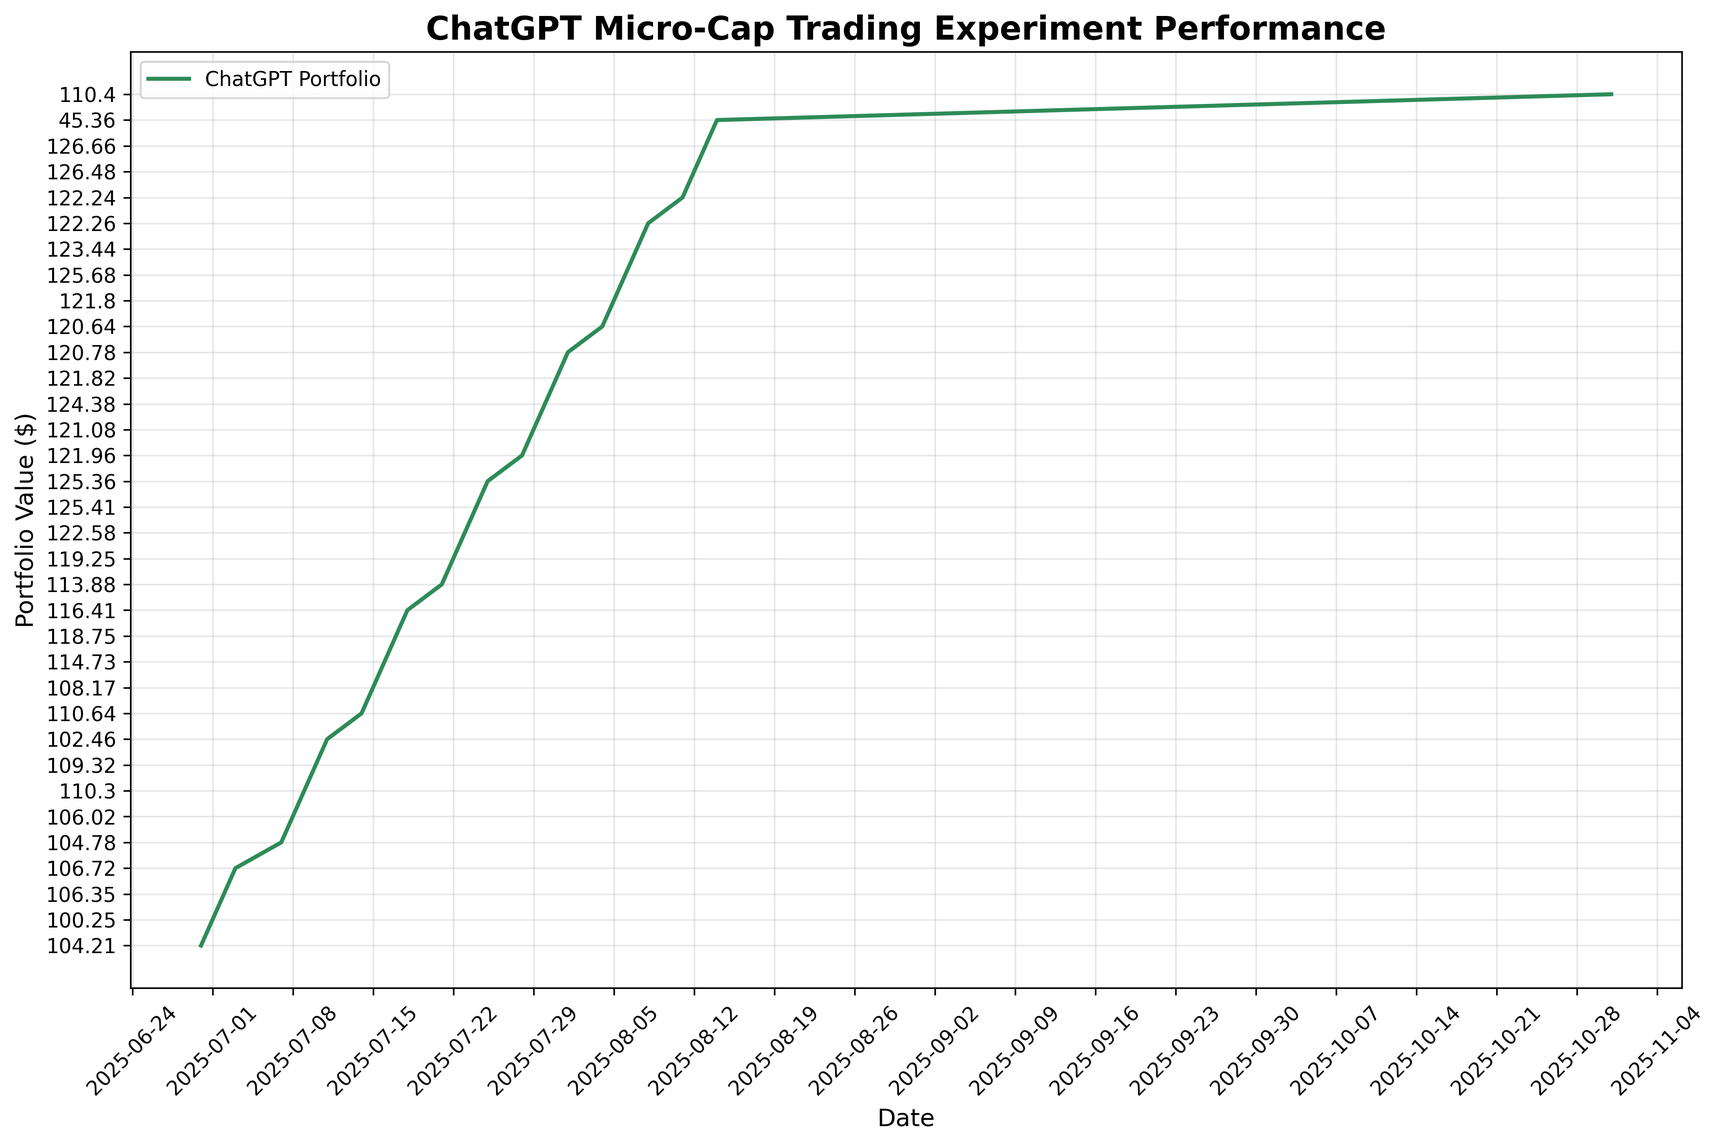
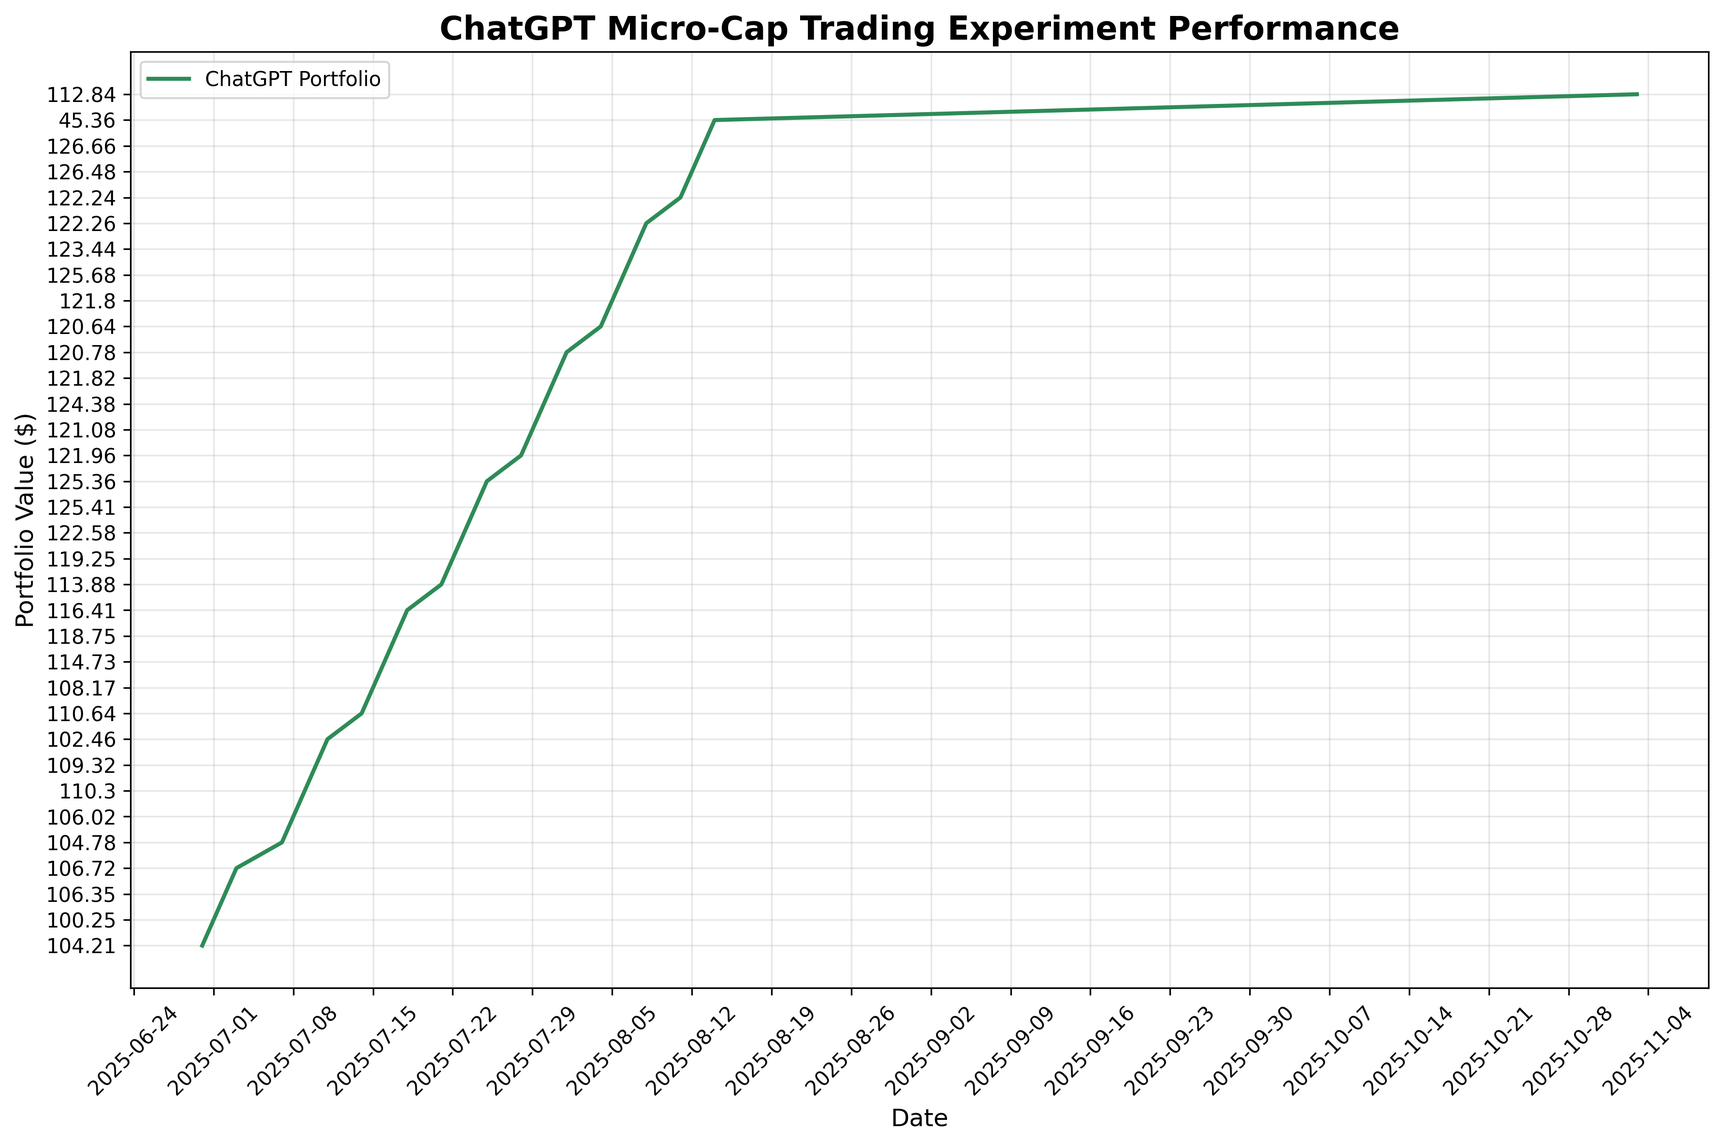
deploy: e15cad030d70fb3fbb51f9df6e22fa70c2f175c0

diff --git a/index.html b/index.html
@@ -105,7 +105,7 @@
                 <div class="stat-label">Total Trades</div>
             </div>
             <div class="stat-card">
-                <div class="stat-value" id="last-updated">2025-10-31</div>
+                <div class="stat-value" id="last-updated">2025-11-03</div>
                 <div class="stat-label">Last Updated</div>
             </div>
         </div>
@@ -160,8 +160,8 @@
     
     <script>
         // Portfolio data
-        const portfolioData = JSON.parse("[{&quot;Date&quot;: &quot;2025-08-11&quot;, &quot;Ticker&quot;: &quot;ABEO&quot;, &quot;Shares&quot;: 4.0, &quot;Buy Price&quot;: 5.77, &quot;Cost Basis&quot;: 23.08, &quot;Stop Loss&quot;: 4.9, &quot;Current Price&quot;: 6.28, &quot;Total Value&quot;: 25.12, &quot;PnL&quot;: 2.04, &quot;Action&quot;: &quot;HOLD&quot;, &quot;Cash Balance&quot;: NaN, &quot;Total Equity&quot;: NaN}, {&quot;Date&quot;: &quot;2025-08-11&quot;, &quot;Ticker&quot;: &quot;ACTU&quot;, &quot;Shares&quot;: 6.0, &quot;Buy Price&quot;: 5.75, &quot;Cost Basis&quot;: 34.5, &quot;Stop Loss&quot;: 4.89, &quot;Current Price&quot;: 8.01, &quot;Total Value&quot;: 48.06, &quot;PnL&quot;: 13.56, &quot;Action&quot;: &quot;HOLD&quot;, &quot;Cash Balance&quot;: NaN, &quot;Total Equity&quot;: NaN}, {&quot;Date&quot;: &quot;2025-08-11&quot;, &quot;Ticker&quot;: &quot;ESPR&quot;, &quot;Shares&quot;: 2.0, &quot;Buy Price&quot;: 1.91, &quot;Cost Basis&quot;: 3.82, &quot;Stop Loss&quot;: 1.6, &quot;Current Price&quot;: 1.85, &quot;Total Value&quot;: 3.7, &quot;PnL&quot;: -0.12, &quot;Action&quot;: &quot;HOLD&quot;, &quot;Cash Balance&quot;: NaN, &quot;Total Equity&quot;: NaN}, {&quot;Date&quot;: &quot;2025-08-11&quot;, &quot;Ticker&quot;: &quot;TOTAL&quot;, &quot;Shares&quot;: NaN, &quot;Buy Price&quot;: NaN, &quot;Cost Basis&quot;: NaN, &quot;Stop Loss&quot;: NaN, &quot;Current Price&quot;: NaN, &quot;Total Value&quot;: 76.88, &quot;PnL&quot;: 15.48, &quot;Action&quot;: NaN, &quot;Cash Balance&quot;: 45.36, &quot;Total Equity&quot;: &quot;122.24&quot;}, {&quot;Date&quot;: &quot;2025-08-12&quot;, &quot;Ticker&quot;: &quot;ABEO&quot;, &quot;Shares&quot;: 4.0, &quot;Buy Price&quot;: 5.77, &quot;Cost Basis&quot;: 23.08, &quot;Stop Loss&quot;: 4.9, &quot;Current Price&quot;: 6.38, &quot;Total Value&quot;: 25.52, &quot;PnL&quot;: 2.44, &quot;Action&quot;: &quot;HOLD&quot;, &quot;Cash Balance&quot;: NaN, &quot;Total Equity&quot;: NaN}, {&quot;Date&quot;: &quot;2025-08-12&quot;, &quot;Ticker&quot;: &quot;ACTU&quot;, &quot;Shares&quot;: 6.0, &quot;Buy Price&quot;: 5.75, &quot;Cost Basis&quot;: 34.5, &quot;Stop Loss&quot;: 4.89, &quot;Current Price&quot;: 8.67, &quot;Total Value&quot;: 52.02, &quot;PnL&quot;: 17.52, &quot;Action&quot;: &quot;HOLD&quot;, &quot;Cash Balance&quot;: NaN, &quot;Total Equity&quot;: NaN}, {&quot;Date&quot;: &quot;2025-08-12&quot;, &quot;Ticker&quot;: &quot;ESPR&quot;, &quot;Shares&quot;: 2.0, &quot;Buy Price&quot;: 1.91, &quot;Cost Basis&quot;: 3.82, &quot;Stop Loss&quot;: 1.6, &quot;Current Price&quot;: 1.79, &quot;Total Value&quot;: 3.58, &quot;PnL&quot;: -0.24, &quot;Action&quot;: &quot;HOLD&quot;, &quot;Cash Balance&quot;: NaN, &quot;Total Equity&quot;: NaN}, {&quot;Date&quot;: &quot;2025-08-12&quot;, &quot;Ticker&quot;: &quot;TOTAL&quot;, &quot;Shares&quot;: NaN, &quot;Buy Price&quot;: NaN, &quot;Cost Basis&quot;: NaN, &quot;Stop Loss&quot;: NaN, &quot;Current Price&quot;: NaN, &quot;Total Value&quot;: 81.12, &quot;PnL&quot;: 19.72, &quot;Action&quot;: NaN, &quot;Cash Balance&quot;: 45.36, &quot;Total Equity&quot;: &quot;126.48&quot;}, {&quot;Date&quot;: &quot;2025-08-13&quot;, &quot;Ticker&quot;: &quot;ABEO&quot;, &quot;Shares&quot;: 4.0, &quot;Buy Price&quot;: 5.77, &quot;Cost Basis&quot;: 23.08, &quot;Stop Loss&quot;: 4.9, &quot;Current Price&quot;: 6.56, &quot;Total Value&quot;: 26.24, &quot;PnL&quot;: 3.16, &quot;Action&quot;: &quot;HOLD&quot;, &quot;Cash Balance&quot;: NaN, &quot;Total Equity&quot;: NaN}, {&quot;Date&quot;: &quot;2025-08-13&quot;, &quot;Ticker&quot;: &quot;ACTU&quot;, &quot;Shares&quot;: 6.0, &quot;Buy Price&quot;: 5.75, &quot;Cost Basis&quot;: 34.5, &quot;Stop Loss&quot;: 4.89, &quot;Current Price&quot;: 8.53, &quot;Total Value&quot;: 51.18, &quot;PnL&quot;: 16.68, &quot;Action&quot;: &quot;HOLD&quot;, &quot;Cash Balance&quot;: NaN, &quot;Total Equity&quot;: NaN}, {&quot;Date&quot;: &quot;2025-08-13&quot;, &quot;Ticker&quot;: &quot;ESPR&quot;, &quot;Shares&quot;: 2.0, &quot;Buy Price&quot;: 1.91, &quot;Cost Basis&quot;: 3.82, &quot;Stop Loss&quot;: 1.6, &quot;Current Price&quot;: 1.94, &quot;Total Value&quot;: 3.88, &quot;PnL&quot;: 0.06, &quot;Action&quot;: &quot;HOLD&quot;, &quot;Cash Balance&quot;: NaN, &quot;Total Equity&quot;: NaN}, {&quot;Date&quot;: &quot;2025-08-13&quot;, &quot;Ticker&quot;: &quot;TOTAL&quot;, &quot;Shares&quot;: NaN, &quot;Buy Price&quot;: NaN, &quot;Cost Basis&quot;: NaN, &quot;Stop Loss&quot;: NaN, &quot;Current Price&quot;: NaN, &quot;Total Value&quot;: 81.3, &quot;PnL&quot;: 19.9, &quot;Action&quot;: NaN, &quot;Cash Balance&quot;: 45.36, &quot;Total Equity&quot;: &quot;126.66&quot;}, {&quot;Date&quot;: &quot;2025-08-14&quot;, &quot;Ticker&quot;: &quot;ABEO&quot;, &quot;Shares&quot;: 4.0, &quot;Buy Price&quot;: 5.77, &quot;Cost Basis&quot;: 23.08, &quot;Stop Loss&quot;: 4.9, &quot;Current Price&quot;: NaN, &quot;Total Value&quot;: NaN, &quot;PnL&quot;: NaN, &quot;Action&quot;: &quot;NO DATA&quot;, &quot;Cash Balance&quot;: NaN, &quot;Total Equity&quot;: NaN}, {&quot;Date&quot;: &quot;2025-08-14&quot;, &quot;Ticker&quot;: &quot;ACTU&quot;, &quot;Shares&quot;: 6.0, &quot;Buy Price&quot;: 5.75, &quot;Cost Basis&quot;: 34.5, &quot;Stop Loss&quot;: 4.89, &quot;Current Price&quot;: NaN, &quot;Total Value&quot;: NaN, &quot;PnL&quot;: NaN, &quot;Action&quot;: &quot;NO DATA&quot;, &quot;Cash Balance&quot;: NaN, &quot;Total Equity&quot;: NaN}, {&quot;Date&quot;: &quot;2025-08-14&quot;, &quot;Ticker&quot;: &quot;ESPR&quot;, &quot;Shares&quot;: 2.0, &quot;Buy Price&quot;: 1.91, &quot;Cost Basis&quot;: 3.82, &quot;Stop Loss&quot;: 1.6, &quot;Current Price&quot;: NaN, &quot;Total Value&quot;: NaN, &quot;PnL&quot;: NaN, &quot;Action&quot;: &quot;NO DATA&quot;, &quot;Cash Balance&quot;: NaN, &quot;Total Equity&quot;: NaN}, {&quot;Date&quot;: &quot;2025-08-14&quot;, &quot;Ticker&quot;: &quot;TOTAL&quot;, &quot;Shares&quot;: NaN, &quot;Buy Price&quot;: NaN, &quot;Cost Basis&quot;: NaN, &quot;Stop Loss&quot;: NaN, &quot;Current Price&quot;: NaN, &quot;Total Value&quot;: 0.0, &quot;PnL&quot;: 0.0, &quot;Action&quot;: NaN, &quot;Cash Balance&quot;: 45.36, &quot;Total Equity&quot;: &quot;45.36&quot;}, {&quot;Date&quot;: &quot;2025-10-31&quot;, &quot;Ticker&quot;: &quot;ABEO&quot;, &quot;Shares&quot;: 4.0, &quot;Buy Price&quot;: 5.77, &quot;Cost Basis&quot;: 23.08, &quot;Stop Loss&quot;: 4.9, &quot;Current Price&quot;: 4.9, &quot;Total Value&quot;: 19.6, &quot;PnL&quot;: -3.48, &quot;Action&quot;: &quot;SELL - Stop Loss Triggered&quot;, &quot;Cash Balance&quot;: NaN, &quot;Total Equity&quot;: NaN}, {&quot;Date&quot;: &quot;2025-10-31&quot;, &quot;Ticker&quot;: &quot;ACTU&quot;, &quot;Shares&quot;: 6.0, &quot;Buy Price&quot;: 5.75, &quot;Cost Basis&quot;: 34.5, &quot;Stop Loss&quot;: 4.89, &quot;Current Price&quot;: 6.6, &quot;Total Value&quot;: 39.6, &quot;PnL&quot;: 5.1, &quot;Action&quot;: &quot;HOLD&quot;, &quot;Cash Balance&quot;: NaN, &quot;Total Equity&quot;: NaN}, {&quot;Date&quot;: &quot;2025-10-31&quot;, &quot;Ticker&quot;: &quot;ESPR&quot;, &quot;Shares&quot;: 2.0, &quot;Buy Price&quot;: 1.91, &quot;Cost Basis&quot;: 3.82, &quot;Stop Loss&quot;: 1.6, &quot;Current Price&quot;: 2.92, &quot;Total Value&quot;: 5.84, &quot;PnL&quot;: 2.02, &quot;Action&quot;: &quot;HOLD&quot;, &quot;Cash Balance&quot;: NaN, &quot;Total Equity&quot;: NaN}, {&quot;Date&quot;: &quot;2025-10-31&quot;, &quot;Ticker&quot;: &quot;TOTAL&quot;, &quot;Shares&quot;: NaN, &quot;Buy Price&quot;: NaN, &quot;Cost Basis&quot;: NaN, &quot;Stop Loss&quot;: NaN, &quot;Current Price&quot;: NaN, &quot;Total Value&quot;: 45.44, &quot;PnL&quot;: 7.12, &quot;Action&quot;: NaN, &quot;Cash Balance&quot;: 64.96, &quot;Total Equity&quot;: &quot;110.4&quot;}]");
-        const tradeData = JSON.parse("[{&quot;Date&quot;: &quot;2025-07-08&quot;, &quot;Ticker&quot;: &quot;IINN&quot;, &quot;Shares Bought&quot;: 20.0, &quot;Buy Price&quot;: 1.5, &quot;Cost Basis&quot;: 30.0, &quot;PnL&quot;: 0.0, &quot;Reason&quot;: &quot;MANUAL BUY - New position&quot;, &quot;Shares Sold&quot;: NaN, &quot;Sell Price&quot;: NaN}, {&quot;Date&quot;: &quot;2025-07-21&quot;, &quot;Ticker&quot;: &quot;CADL&quot;, &quot;Shares Bought&quot;: NaN, &quot;Buy Price&quot;: NaN, &quot;Cost Basis&quot;: 25.2, &quot;PnL&quot;: 8.5, &quot;Reason&quot;: &quot;MANUAL SELL - GAIN CAPITAL FOR ACTU&quot;, &quot;Shares Sold&quot;: 5.0, &quot;Sell Price&quot;: 6.59}, {&quot;Date&quot;: &quot;2025-07-21&quot;, &quot;Ticker&quot;: &quot;ACTU&quot;, &quot;Shares Bought&quot;: 6.0, &quot;Buy Price&quot;: 5.75, &quot;Cost Basis&quot;: 34.5, &quot;PnL&quot;: 0.0, &quot;Reason&quot;: &quot;MANUAL BUY - New position&quot;, &quot;Shares Sold&quot;: NaN, &quot;Sell Price&quot;: NaN}, {&quot;Date&quot;: &quot;2025-07-28&quot;, &quot;Ticker&quot;: &quot;IINN&quot;, &quot;Shares Bought&quot;: NaN, &quot;Buy Price&quot;: NaN, &quot;Cost Basis&quot;: 9.0, &quot;PnL&quot;: -0.5400000000000009, &quot;Reason&quot;: &quot;MANUAL SELL - POSITION REDUCTION&quot;, &quot;Shares Sold&quot;: 6.0, &quot;Sell Price&quot;: 1.41}, {&quot;Date&quot;: &quot;2025-07-29&quot;, &quot;Ticker&quot;: &quot;AZTR&quot;, &quot;Shares Bought&quot;: NaN, &quot;Buy Price&quot;: NaN, &quot;Cost Basis&quot;: 13.75, &quot;PnL&quot;: -2.75, &quot;Reason&quot;: &quot;MANUAL SELL - DILUTION RISK&quot;, &quot;Shares Sold&quot;: 55.0, &quot;Sell Price&quot;: 0.2}, {&quot;Date&quot;: &quot;2025-08-01&quot;, &quot;Ticker&quot;: &quot;IINN&quot;, &quot;Shares Bought&quot;: 2.0, &quot;Buy Price&quot;: 1.74, &quot;Cost Basis&quot;: 3.48, &quot;PnL&quot;: 0.0, &quot;Reason&quot;: &quot;MANUAL BUY - New position&quot;, &quot;Shares Sold&quot;: NaN, &quot;Sell Price&quot;: NaN}, {&quot;Date&quot;: &quot;2025-08-01&quot;, &quot;Ticker&quot;: &quot;ABEO&quot;, &quot;Shares Bought&quot;: NaN, &quot;Buy Price&quot;: NaN, &quot;Cost Basis&quot;: 11.54, &quot;PnL&quot;: 1.200000000000001, &quot;Reason&quot;: &quot;MANUAL SELL - TRIM AFTER SUPPORT LOSS&quot;, &quot;Shares Sold&quot;: 2.0, &quot;Sell Price&quot;: 6.37}, {&quot;Date&quot;: &quot;2025-08-07&quot;, &quot;Ticker&quot;: &quot;ESPR&quot;, &quot;Shares Bought&quot;: 2.0, &quot;Buy Price&quot;: 1.91, &quot;Cost Basis&quot;: 3.82, &quot;PnL&quot;: 0.0, &quot;Reason&quot;: &quot;MANUAL BUY - New position&quot;, &quot;Shares Sold&quot;: NaN, &quot;Sell Price&quot;: NaN}, {&quot;Date&quot;: &quot;2025-08-08&quot;, &quot;Ticker&quot;: &quot;IINN&quot;, &quot;Shares Bought&quot;: NaN, &quot;Buy Price&quot;: NaN, &quot;Cost Basis&quot;: 1.5, &quot;PnL&quot;: -6.4, &quot;Reason&quot;: &quot;AUTOMATED SELL - STOPLOSS TRIGGERED&quot;, &quot;Shares Sold&quot;: 16.0, &quot;Sell Price&quot;: 1.1}, {&quot;Date&quot;: &quot;2025-10-31&quot;, &quot;Ticker&quot;: &quot;ABEO&quot;, &quot;Shares Bought&quot;: NaN, &quot;Buy Price&quot;: NaN, &quot;Cost Basis&quot;: 5.77, &quot;PnL&quot;: -3.48, &quot;Reason&quot;: &quot;AUTOMATED SELL - STOPLOSS TRIGGERED&quot;, &quot;Shares Sold&quot;: 4.0, &quot;Sell Price&quot;: 4.9}]");
+        const portfolioData = JSON.parse("[{&quot;Date&quot;: &quot;2025-08-11&quot;, &quot;Ticker&quot;: &quot;ABEO&quot;, &quot;Shares&quot;: 4.0, &quot;Buy Price&quot;: 5.77, &quot;Cost Basis&quot;: 23.08, &quot;Stop Loss&quot;: 4.9, &quot;Current Price&quot;: 6.28, &quot;Total Value&quot;: 25.12, &quot;PnL&quot;: 2.04, &quot;Action&quot;: &quot;HOLD&quot;, &quot;Cash Balance&quot;: NaN, &quot;Total Equity&quot;: NaN}, {&quot;Date&quot;: &quot;2025-08-11&quot;, &quot;Ticker&quot;: &quot;ACTU&quot;, &quot;Shares&quot;: 6.0, &quot;Buy Price&quot;: 5.75, &quot;Cost Basis&quot;: 34.5, &quot;Stop Loss&quot;: 4.89, &quot;Current Price&quot;: 8.01, &quot;Total Value&quot;: 48.06, &quot;PnL&quot;: 13.56, &quot;Action&quot;: &quot;HOLD&quot;, &quot;Cash Balance&quot;: NaN, &quot;Total Equity&quot;: NaN}, {&quot;Date&quot;: &quot;2025-08-11&quot;, &quot;Ticker&quot;: &quot;ESPR&quot;, &quot;Shares&quot;: 2.0, &quot;Buy Price&quot;: 1.91, &quot;Cost Basis&quot;: 3.82, &quot;Stop Loss&quot;: 1.6, &quot;Current Price&quot;: 1.85, &quot;Total Value&quot;: 3.7, &quot;PnL&quot;: -0.12, &quot;Action&quot;: &quot;HOLD&quot;, &quot;Cash Balance&quot;: NaN, &quot;Total Equity&quot;: NaN}, {&quot;Date&quot;: &quot;2025-08-11&quot;, &quot;Ticker&quot;: &quot;TOTAL&quot;, &quot;Shares&quot;: NaN, &quot;Buy Price&quot;: NaN, &quot;Cost Basis&quot;: NaN, &quot;Stop Loss&quot;: NaN, &quot;Current Price&quot;: NaN, &quot;Total Value&quot;: 76.88, &quot;PnL&quot;: 15.48, &quot;Action&quot;: NaN, &quot;Cash Balance&quot;: 45.36, &quot;Total Equity&quot;: &quot;122.24&quot;}, {&quot;Date&quot;: &quot;2025-08-12&quot;, &quot;Ticker&quot;: &quot;ABEO&quot;, &quot;Shares&quot;: 4.0, &quot;Buy Price&quot;: 5.77, &quot;Cost Basis&quot;: 23.08, &quot;Stop Loss&quot;: 4.9, &quot;Current Price&quot;: 6.38, &quot;Total Value&quot;: 25.52, &quot;PnL&quot;: 2.44, &quot;Action&quot;: &quot;HOLD&quot;, &quot;Cash Balance&quot;: NaN, &quot;Total Equity&quot;: NaN}, {&quot;Date&quot;: &quot;2025-08-12&quot;, &quot;Ticker&quot;: &quot;ACTU&quot;, &quot;Shares&quot;: 6.0, &quot;Buy Price&quot;: 5.75, &quot;Cost Basis&quot;: 34.5, &quot;Stop Loss&quot;: 4.89, &quot;Current Price&quot;: 8.67, &quot;Total Value&quot;: 52.02, &quot;PnL&quot;: 17.52, &quot;Action&quot;: &quot;HOLD&quot;, &quot;Cash Balance&quot;: NaN, &quot;Total Equity&quot;: NaN}, {&quot;Date&quot;: &quot;2025-08-12&quot;, &quot;Ticker&quot;: &quot;ESPR&quot;, &quot;Shares&quot;: 2.0, &quot;Buy Price&quot;: 1.91, &quot;Cost Basis&quot;: 3.82, &quot;Stop Loss&quot;: 1.6, &quot;Current Price&quot;: 1.79, &quot;Total Value&quot;: 3.58, &quot;PnL&quot;: -0.24, &quot;Action&quot;: &quot;HOLD&quot;, &quot;Cash Balance&quot;: NaN, &quot;Total Equity&quot;: NaN}, {&quot;Date&quot;: &quot;2025-08-12&quot;, &quot;Ticker&quot;: &quot;TOTAL&quot;, &quot;Shares&quot;: NaN, &quot;Buy Price&quot;: NaN, &quot;Cost Basis&quot;: NaN, &quot;Stop Loss&quot;: NaN, &quot;Current Price&quot;: NaN, &quot;Total Value&quot;: 81.12, &quot;PnL&quot;: 19.72, &quot;Action&quot;: NaN, &quot;Cash Balance&quot;: 45.36, &quot;Total Equity&quot;: &quot;126.48&quot;}, {&quot;Date&quot;: &quot;2025-08-13&quot;, &quot;Ticker&quot;: &quot;ABEO&quot;, &quot;Shares&quot;: 4.0, &quot;Buy Price&quot;: 5.77, &quot;Cost Basis&quot;: 23.08, &quot;Stop Loss&quot;: 4.9, &quot;Current Price&quot;: 6.56, &quot;Total Value&quot;: 26.24, &quot;PnL&quot;: 3.16, &quot;Action&quot;: &quot;HOLD&quot;, &quot;Cash Balance&quot;: NaN, &quot;Total Equity&quot;: NaN}, {&quot;Date&quot;: &quot;2025-08-13&quot;, &quot;Ticker&quot;: &quot;ACTU&quot;, &quot;Shares&quot;: 6.0, &quot;Buy Price&quot;: 5.75, &quot;Cost Basis&quot;: 34.5, &quot;Stop Loss&quot;: 4.89, &quot;Current Price&quot;: 8.53, &quot;Total Value&quot;: 51.18, &quot;PnL&quot;: 16.68, &quot;Action&quot;: &quot;HOLD&quot;, &quot;Cash Balance&quot;: NaN, &quot;Total Equity&quot;: NaN}, {&quot;Date&quot;: &quot;2025-08-13&quot;, &quot;Ticker&quot;: &quot;ESPR&quot;, &quot;Shares&quot;: 2.0, &quot;Buy Price&quot;: 1.91, &quot;Cost Basis&quot;: 3.82, &quot;Stop Loss&quot;: 1.6, &quot;Current Price&quot;: 1.94, &quot;Total Value&quot;: 3.88, &quot;PnL&quot;: 0.06, &quot;Action&quot;: &quot;HOLD&quot;, &quot;Cash Balance&quot;: NaN, &quot;Total Equity&quot;: NaN}, {&quot;Date&quot;: &quot;2025-08-13&quot;, &quot;Ticker&quot;: &quot;TOTAL&quot;, &quot;Shares&quot;: NaN, &quot;Buy Price&quot;: NaN, &quot;Cost Basis&quot;: NaN, &quot;Stop Loss&quot;: NaN, &quot;Current Price&quot;: NaN, &quot;Total Value&quot;: 81.3, &quot;PnL&quot;: 19.9, &quot;Action&quot;: NaN, &quot;Cash Balance&quot;: 45.36, &quot;Total Equity&quot;: &quot;126.66&quot;}, {&quot;Date&quot;: &quot;2025-08-14&quot;, &quot;Ticker&quot;: &quot;ABEO&quot;, &quot;Shares&quot;: 4.0, &quot;Buy Price&quot;: 5.77, &quot;Cost Basis&quot;: 23.08, &quot;Stop Loss&quot;: 4.9, &quot;Current Price&quot;: NaN, &quot;Total Value&quot;: NaN, &quot;PnL&quot;: NaN, &quot;Action&quot;: &quot;NO DATA&quot;, &quot;Cash Balance&quot;: NaN, &quot;Total Equity&quot;: NaN}, {&quot;Date&quot;: &quot;2025-08-14&quot;, &quot;Ticker&quot;: &quot;ACTU&quot;, &quot;Shares&quot;: 6.0, &quot;Buy Price&quot;: 5.75, &quot;Cost Basis&quot;: 34.5, &quot;Stop Loss&quot;: 4.89, &quot;Current Price&quot;: NaN, &quot;Total Value&quot;: NaN, &quot;PnL&quot;: NaN, &quot;Action&quot;: &quot;NO DATA&quot;, &quot;Cash Balance&quot;: NaN, &quot;Total Equity&quot;: NaN}, {&quot;Date&quot;: &quot;2025-08-14&quot;, &quot;Ticker&quot;: &quot;ESPR&quot;, &quot;Shares&quot;: 2.0, &quot;Buy Price&quot;: 1.91, &quot;Cost Basis&quot;: 3.82, &quot;Stop Loss&quot;: 1.6, &quot;Current Price&quot;: NaN, &quot;Total Value&quot;: NaN, &quot;PnL&quot;: NaN, &quot;Action&quot;: &quot;NO DATA&quot;, &quot;Cash Balance&quot;: NaN, &quot;Total Equity&quot;: NaN}, {&quot;Date&quot;: &quot;2025-08-14&quot;, &quot;Ticker&quot;: &quot;TOTAL&quot;, &quot;Shares&quot;: NaN, &quot;Buy Price&quot;: NaN, &quot;Cost Basis&quot;: NaN, &quot;Stop Loss&quot;: NaN, &quot;Current Price&quot;: NaN, &quot;Total Value&quot;: 0.0, &quot;PnL&quot;: 0.0, &quot;Action&quot;: NaN, &quot;Cash Balance&quot;: 45.36, &quot;Total Equity&quot;: &quot;45.36&quot;}, {&quot;Date&quot;: &quot;2025-11-03&quot;, &quot;Ticker&quot;: &quot;ABEO&quot;, &quot;Shares&quot;: 4.0, &quot;Buy Price&quot;: 5.77, &quot;Cost Basis&quot;: 23.08, &quot;Stop Loss&quot;: 4.9, &quot;Current Price&quot;: 4.9, &quot;Total Value&quot;: 19.6, &quot;PnL&quot;: -3.48, &quot;Action&quot;: &quot;SELL - Stop Loss Triggered&quot;, &quot;Cash Balance&quot;: NaN, &quot;Total Equity&quot;: NaN}, {&quot;Date&quot;: &quot;2025-11-03&quot;, &quot;Ticker&quot;: &quot;ACTU&quot;, &quot;Shares&quot;: 6.0, &quot;Buy Price&quot;: 5.75, &quot;Cost Basis&quot;: 34.5, &quot;Stop Loss&quot;: 4.89, &quot;Current Price&quot;: 7.01, &quot;Total Value&quot;: 42.06, &quot;PnL&quot;: 7.56, &quot;Action&quot;: &quot;HOLD&quot;, &quot;Cash Balance&quot;: NaN, &quot;Total Equity&quot;: NaN}, {&quot;Date&quot;: &quot;2025-11-03&quot;, &quot;Ticker&quot;: &quot;ESPR&quot;, &quot;Shares&quot;: 2.0, &quot;Buy Price&quot;: 1.91, &quot;Cost Basis&quot;: 3.82, &quot;Stop Loss&quot;: 1.6, &quot;Current Price&quot;: 2.91, &quot;Total Value&quot;: 5.82, &quot;PnL&quot;: 2.0, &quot;Action&quot;: &quot;HOLD&quot;, &quot;Cash Balance&quot;: NaN, &quot;Total Equity&quot;: NaN}, {&quot;Date&quot;: &quot;2025-11-03&quot;, &quot;Ticker&quot;: &quot;TOTAL&quot;, &quot;Shares&quot;: NaN, &quot;Buy Price&quot;: NaN, &quot;Cost Basis&quot;: NaN, &quot;Stop Loss&quot;: NaN, &quot;Current Price&quot;: NaN, &quot;Total Value&quot;: 47.88, &quot;PnL&quot;: 9.56, &quot;Action&quot;: NaN, &quot;Cash Balance&quot;: 64.96, &quot;Total Equity&quot;: &quot;112.84&quot;}]");
+        const tradeData = JSON.parse("[{&quot;Date&quot;: &quot;2025-07-08&quot;, &quot;Ticker&quot;: &quot;IINN&quot;, &quot;Shares Bought&quot;: 20.0, &quot;Buy Price&quot;: 1.5, &quot;Cost Basis&quot;: 30.0, &quot;PnL&quot;: 0.0, &quot;Reason&quot;: &quot;MANUAL BUY - New position&quot;, &quot;Shares Sold&quot;: NaN, &quot;Sell Price&quot;: NaN}, {&quot;Date&quot;: &quot;2025-07-21&quot;, &quot;Ticker&quot;: &quot;CADL&quot;, &quot;Shares Bought&quot;: NaN, &quot;Buy Price&quot;: NaN, &quot;Cost Basis&quot;: 25.2, &quot;PnL&quot;: 8.5, &quot;Reason&quot;: &quot;MANUAL SELL - GAIN CAPITAL FOR ACTU&quot;, &quot;Shares Sold&quot;: 5.0, &quot;Sell Price&quot;: 6.59}, {&quot;Date&quot;: &quot;2025-07-21&quot;, &quot;Ticker&quot;: &quot;ACTU&quot;, &quot;Shares Bought&quot;: 6.0, &quot;Buy Price&quot;: 5.75, &quot;Cost Basis&quot;: 34.5, &quot;PnL&quot;: 0.0, &quot;Reason&quot;: &quot;MANUAL BUY - New position&quot;, &quot;Shares Sold&quot;: NaN, &quot;Sell Price&quot;: NaN}, {&quot;Date&quot;: &quot;2025-07-28&quot;, &quot;Ticker&quot;: &quot;IINN&quot;, &quot;Shares Bought&quot;: NaN, &quot;Buy Price&quot;: NaN, &quot;Cost Basis&quot;: 9.0, &quot;PnL&quot;: -0.5400000000000009, &quot;Reason&quot;: &quot;MANUAL SELL - POSITION REDUCTION&quot;, &quot;Shares Sold&quot;: 6.0, &quot;Sell Price&quot;: 1.41}, {&quot;Date&quot;: &quot;2025-07-29&quot;, &quot;Ticker&quot;: &quot;AZTR&quot;, &quot;Shares Bought&quot;: NaN, &quot;Buy Price&quot;: NaN, &quot;Cost Basis&quot;: 13.75, &quot;PnL&quot;: -2.75, &quot;Reason&quot;: &quot;MANUAL SELL - DILUTION RISK&quot;, &quot;Shares Sold&quot;: 55.0, &quot;Sell Price&quot;: 0.2}, {&quot;Date&quot;: &quot;2025-08-01&quot;, &quot;Ticker&quot;: &quot;IINN&quot;, &quot;Shares Bought&quot;: 2.0, &quot;Buy Price&quot;: 1.74, &quot;Cost Basis&quot;: 3.48, &quot;PnL&quot;: 0.0, &quot;Reason&quot;: &quot;MANUAL BUY - New position&quot;, &quot;Shares Sold&quot;: NaN, &quot;Sell Price&quot;: NaN}, {&quot;Date&quot;: &quot;2025-08-01&quot;, &quot;Ticker&quot;: &quot;ABEO&quot;, &quot;Shares Bought&quot;: NaN, &quot;Buy Price&quot;: NaN, &quot;Cost Basis&quot;: 11.54, &quot;PnL&quot;: 1.200000000000001, &quot;Reason&quot;: &quot;MANUAL SELL - TRIM AFTER SUPPORT LOSS&quot;, &quot;Shares Sold&quot;: 2.0, &quot;Sell Price&quot;: 6.37}, {&quot;Date&quot;: &quot;2025-08-07&quot;, &quot;Ticker&quot;: &quot;ESPR&quot;, &quot;Shares Bought&quot;: 2.0, &quot;Buy Price&quot;: 1.91, &quot;Cost Basis&quot;: 3.82, &quot;PnL&quot;: 0.0, &quot;Reason&quot;: &quot;MANUAL BUY - New position&quot;, &quot;Shares Sold&quot;: NaN, &quot;Sell Price&quot;: NaN}, {&quot;Date&quot;: &quot;2025-08-08&quot;, &quot;Ticker&quot;: &quot;IINN&quot;, &quot;Shares Bought&quot;: NaN, &quot;Buy Price&quot;: NaN, &quot;Cost Basis&quot;: 1.5, &quot;PnL&quot;: -6.4, &quot;Reason&quot;: &quot;AUTOMATED SELL - STOPLOSS TRIGGERED&quot;, &quot;Shares Sold&quot;: 16.0, &quot;Sell Price&quot;: 1.1}, {&quot;Date&quot;: &quot;2025-11-03&quot;, &quot;Ticker&quot;: &quot;ABEO&quot;, &quot;Shares Bought&quot;: NaN, &quot;Buy Price&quot;: NaN, &quot;Cost Basis&quot;: 5.77, &quot;PnL&quot;: -3.48, &quot;Reason&quot;: &quot;AUTOMATED SELL - STOPLOSS TRIGGERED&quot;, &quot;Shares Sold&quot;: 4.0, &quot;Sell Price&quot;: 4.9}]");
         
         // Update total equity
         if (portfolioData.length > 0) {
